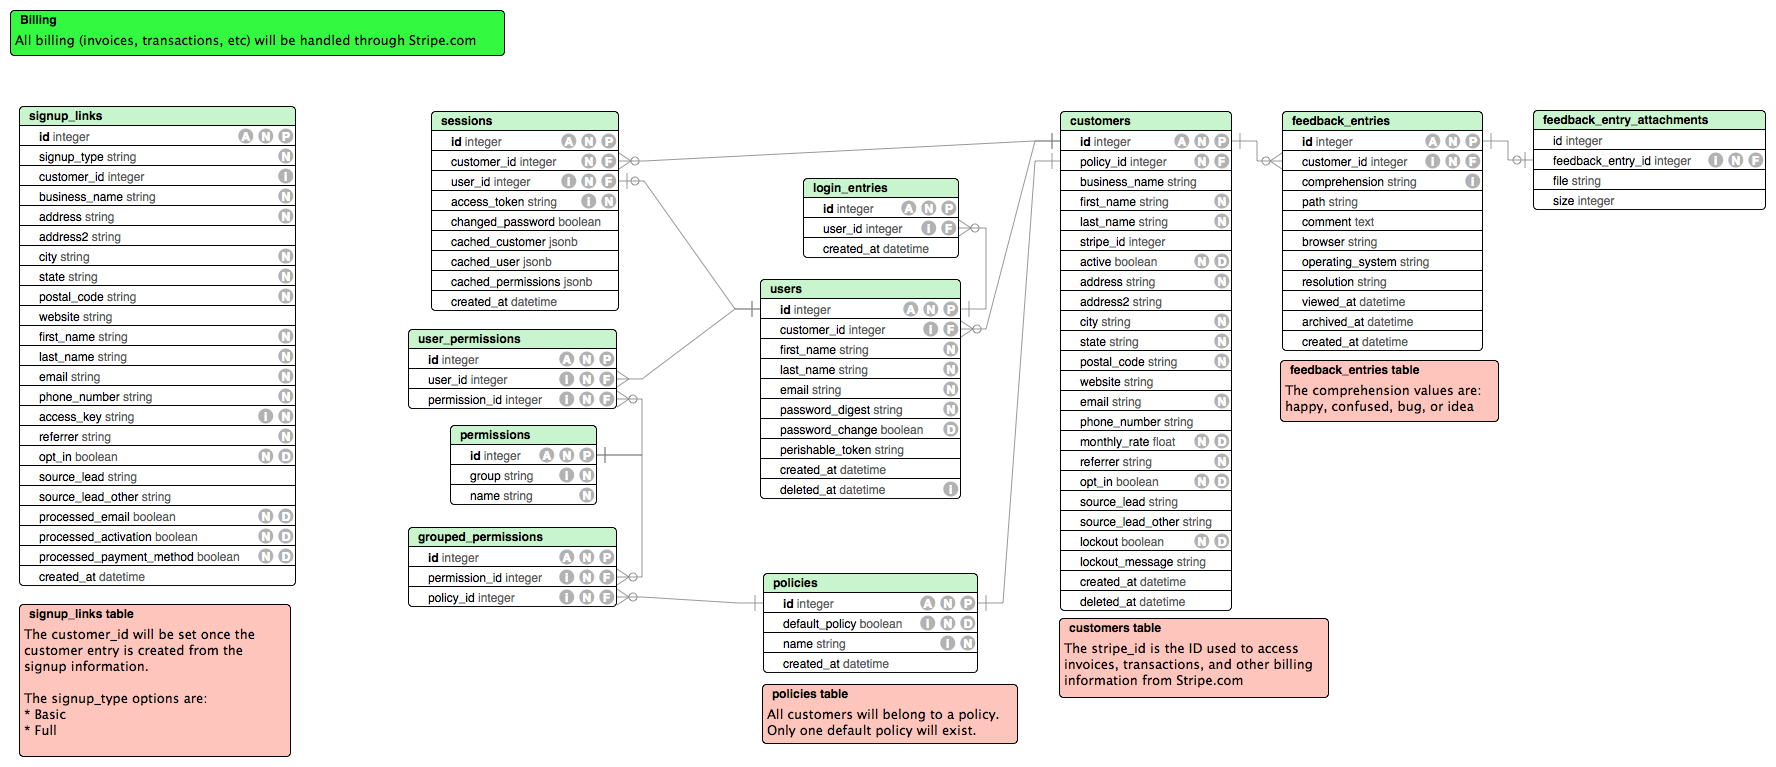
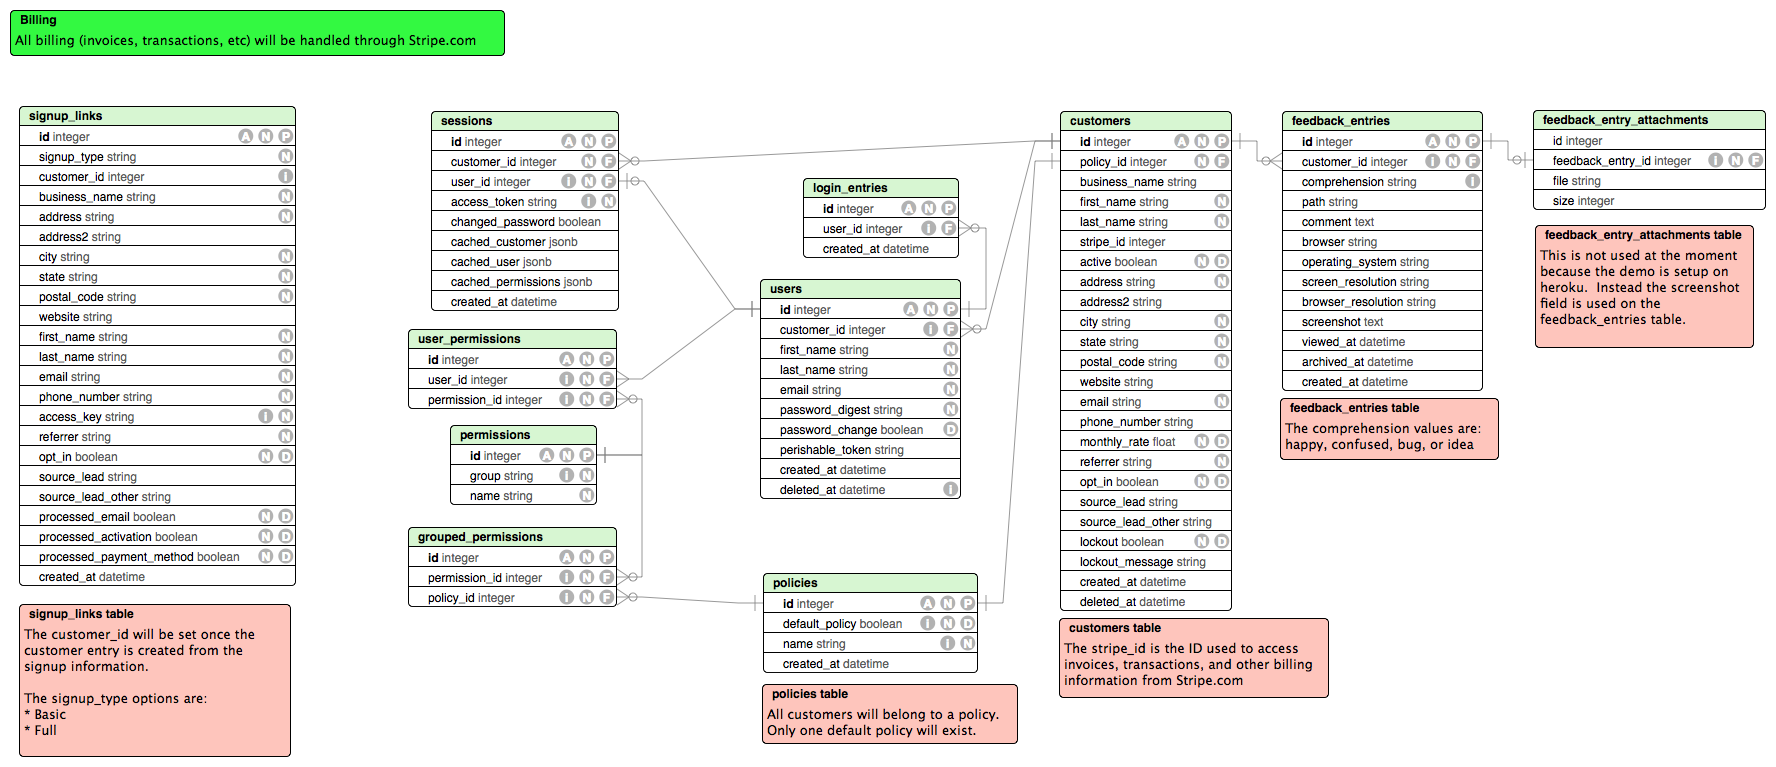
submitting of screenshot is working now.

Changed region(s): [[0.7123, 0.3598, 0.8671, 0.5997], [0.8671, 0.2699, 0.991, 0.4798]]

diff --git a/public/fish.js b/public/fish.js
@@ -1,174 +1,46 @@
 BetaFish = {
   defaults : { 'access_key' : null },
-  _class_vars : { 'url' : 'https://betafish.herokuapp.com/api/feedback_entry' },
+  class_vars : { 'url' : 'http://localhost:3000/api/feedback_entries' },
+  //class_vars : { 'url' : 'https://betafish.herokuapp.com/api/feedback_entries' },
 
-  start : function(options) {
-    // if(options !== undefined) {
-    //   $.extend(this.defaults, options)
-    // }
+  show_form : function() {
 
-    // if(this.defaults['access_key'] == null) {
-    //   alert('Access key must be set');
-    //   return;
-    // }
-
-    // var self = this; // Need object scope at this point
-    // $.getJSON(this._class_vars['url'], function(response){
-
-    //     self.take_snapshot();
-    //   }
-    // )
-    console.log('Hello world');
+  },
+  submit_form : function(options) {
+    this.take_snapshot();
+    console.log('Data Sent');
   },
 
   take_snapshot : function() {
-    console.log('Start');
+    var self = this;
     html2canvas(document.body, {
       onrendered: function(canvas) {
-        document.body.appendChild(canvas);
+        var data = { 'feedback_entry' : {
+          'comprehension' : 'happy',
+          'path' : window.location.href,
+          'comment' : 'This is really awesome',
+          'browser' : navigator.userAgent,
+          'operating_system' : navigator.platform,
+          'screen_resolution' : window.screen.width + ' x ' + window.screen.height,
+          'browser_resolution' : document.body.clientWidth + ' x ' + document.body.clientHeight,
+          'screenshot' : canvas.toDataURL('image/png') //.split(',')[1]
+        }};
+        self.post_feedback(data);
       }
     });
-    console.log('Finished');
+  },
+
+  post_feedback : function(data) {
+    var xmlDoc = new XMLHttpRequest();
+    xmlDoc.open('POST', this.class_vars['url'], true);
+    xmlDoc.setRequestHeader("Content-type", "application/x-www-form-urlencoded");
+    xmlDoc.setRequestHeader('Content-Type', 'application/json');
+    xmlDoc.onreadystatechange = function() {
+      if (xmlDoc.readyState === 4 && xmlDoc.status === 200) {
+        // callback(xmlDoc);
+        console.log('ready....');
+      }
+    }
+    xmlDoc.send(JSON.stringify(data));
   }
-}
-
-
-
-// **************************************************
-// Base64 Utility Section
-// **************************************************
-var TCBase64 = {
-
-  // private property
[1 lines of base64/hex data omitted]
-
-  // public method for encoding
-  encode : function (input) {
-    var output = "";
-    var chr1, chr2, chr3, enc1, enc2, enc3, enc4;
-    var i = 0;
-
-    input = TCBase64._utf8_encode(input);
-
-    while (i < input.length) {
-
-      chr1 = input.charCodeAt(i++);
-      chr2 = input.charCodeAt(i++);
-      chr3 = input.charCodeAt(i++);
-
-      enc1 = chr1 >> 2;
-      enc2 = ((chr1 & 3) << 4) | (chr2 >> 4);
-      enc3 = ((chr2 & 15) << 2) | (chr3 >> 6);
-      enc4 = chr3 & 63;
-
-      if (isNaN(chr2)) {
-        enc3 = enc4 = 64;
-      } else if (isNaN(chr3)) {
-        enc4 = 64;
-      }
-
-      output = output +
-      this._keyStr.charAt(enc1) + this._keyStr.charAt(enc2) +
-      this._keyStr.charAt(enc3) + this._keyStr.charAt(enc4);
-
-    }
-
-    return output;
-  },
-
-  // public method for decoding
-  decode : function (input) {
-    var output = "";
-    var chr1, chr2, chr3;
-    var enc1, enc2, enc3, enc4;
-    var i = 0;
-
-    input = input.replace(/[^A-Za-z0-9\+\/\=]/g, "");
-
-    while (i < input.length) {
-
-      enc1 = this._keyStr.indexOf(input.charAt(i++));
-      enc2 = this._keyStr.indexOf(input.charAt(i++));
-      enc3 = this._keyStr.indexOf(input.charAt(i++));
-      enc4 = this._keyStr.indexOf(input.charAt(i++));
-
-      chr1 = (enc1 << 2) | (enc2 >> 4);
-      chr2 = ((enc2 & 15) << 4) | (enc3 >> 2);
-      chr3 = ((enc3 & 3) << 6) | enc4;
-
-      output = output + String.fromCharCode(chr1);
-
-      if (enc3 != 64) {
-        output = output + String.fromCharCode(chr2);
-      }
-      if (enc4 != 64) {
-        output = output + String.fromCharCode(chr3);
-      }
-
-    }
-
-    output = TCBase64._utf8_decode(output);
-
-    return output;
-
-  },
-
-  // private method for UTF-8 encoding
-  _utf8_encode : function (string) {
-    string = string.replace(/\r\n/g,"\n");
-    var utftext = "";
-
-    for (var n = 0; n < string.length; n++) {
-
-      var c = string.charCodeAt(n);
-
-      if (c < 128) {
-        utftext += String.fromCharCode(c);
-      }
-      else if((c > 127) && (c < 2048)) {
-        utftext += String.fromCharCode((c >> 6) | 192);
-        utftext += String.fromCharCode((c & 63) | 128);
-      }
-      else {
-        utftext += String.fromCharCode((c >> 12) | 224);
-        utftext += String.fromCharCode(((c >> 6) & 63) | 128);
-        utftext += String.fromCharCode((c & 63) | 128);
-      }
-
-    }
-
-    return utftext;
-  },
-
-  // private method for UTF-8 decoding
-  _utf8_decode : function (utftext) {
-    var string = "";
-    var i = 0;
-    var c = c1 = c2 = 0;
-
-    while ( i < utftext.length ) {
-
-      c = utftext.charCodeAt(i);
-
-      if (c < 128) {
-        string += String.fromCharCode(c);
-        i++;
-      }
-      else if((c > 191) && (c < 224)) {
-        c2 = utftext.charCodeAt(i+1);
-        string += String.fromCharCode(((c & 31) << 6) | (c2 & 63));
-        i += 2;
-      }
-      else {
-        c2 = utftext.charCodeAt(i+1);
-        c3 = utftext.charCodeAt(i+2);
-        string += String.fromCharCode(((c & 15) << 12) | ((c2 & 63) << 6) | (c3 & 63));
-        i += 3;
-      }
-
-    }
-
-    return string;
-  }
-
 }

diff --git a/public/example.html b/public/example.html
@@ -3,7 +3,7 @@
     <title>Beta Fish exmaple</title>
     <script type="text/javascript" src="https://betafish.herokuapp.com/libs/html2canvas.min.js"></script>
     <script type="text/javascript" src="https://betafish.herokuapp.com/libs/html2canvas.svg.min.js"></script>
-    <script type="text/javascript" src="https://betafish.herokuapp.com/fish.js"></script>
+    <script type="text/javascript" src="http://localhost:3000/fish.js"></script>
   </head>
 
   <body>

diff --git a/app/assets/stylesheets/feedback_entries.scss b/app/assets/stylesheets/feedback_entries.scss
@@ -16,8 +16,15 @@
 .feedback_operating_system {
 }
 
-.feedback_resolution {
+.feedback_screen_resolution {
+}
+
+.feedback_browser_resolution {
 }
 
 .feedback_screenshot {
+}
+
+.feedback_screenshot img {
+  border: 1px solid #ff0000;
 }

diff --git a/app/assets/stylesheets/application.scss b/app/assets/stylesheets/application.scss
@@ -1,4 +1,5 @@
 @import "bootstrap";
+@import "feedback_entries";
 
 .bs-top-nav-padding {
   padding: 10px;

diff --git a/app/controllers/api/feedback_entries_controller.rb b/app/controllers/api/feedback_entries_controller.rb
@@ -1,7 +1,10 @@
+require 'base64'
+
 class Api::FeedbackEntriesController < ApplicationController
   skip_before_action  :verify_authenticity_token
 
   def create
+    # File.open('dog.png', 'wb') { |file| file.write(Base64.decode64(feedback_entry_params[:screenshot])) }
     fbe = FeedbackEntry.create(feedback_entry_params.merge(customer_id: 1))
     render json: { success: fbe.id }
   end
@@ -15,7 +18,9 @@ class Api::FeedbackEntriesController < ApplicationController
       :comment,
       :browser,
       :operating_system,
-      :resolution
+      :screen_resolution,
+      :browser_resolution,
+      :screenshot
     )
   end
 end

diff --git a/db/schema.rb b/db/schema.rb
@@ -42,13 +42,15 @@ ActiveRecord::Schema.define(version: 20161104021059) do
   end
 
   create_table "feedback_entries", force: :cascade do |t|
-    t.integer  "customer_id",      null: false
+    t.integer  "customer_id",        null: false
     t.string   "comprehension"
     t.string   "path"
     t.text     "comment"
     t.string   "browser"
     t.string   "operating_system"
-    t.string   "resolution"
+    t.string   "screen_resolution"
+    t.string   "browser_resolution"
+    t.text     "screenshot"
     t.datetime "viewed_at"
     t.datetime "archived_at"
     t.datetime "created_at"

diff --git a/db/migrate/20161104021049_create_feedback_entries.rb b/db/migrate/20161104021049_create_feedback_entries.rb
@@ -7,7 +7,9 @@ class CreateFeedbackEntries < ActiveRecord::Migration[5.0]
       t.text :comment
       t.string :browser
       t.string :operating_system
-      t.string :resolution
+      t.string :screen_resolution
+      t.string :browser_resolution
+      t.text :screenshot
       t.datetime :viewed_at
       t.datetime :archived_at
       t.datetime :created_at

diff --git a/app/controllers/feedback_entries_controller.rb b/app/controllers/feedback_entries_controller.rb
@@ -33,6 +33,14 @@ class FeedbackEntriesController < ApplicationController
   def update
   end
 
+  # def show_image
+  #   @feedback_entry = FeedbackEntry.find(params[:id])
+  #   send_data @feedback_entry.screenshot,
+  #     filename: "image#{params[:id]}.png",
+  #     type: 'image/png',
+  #     disposition: 'inline'
+  # end
+
   private
 
   def feedback_entry

diff --git a/app/helpers/feedback_entries_helper.rb b/app/helpers/feedback_entries_helper.rb
@@ -18,6 +18,7 @@ module FeedbackEntriesHelper
   end
 
   def feedback_screenshot(feedback_entry)
-    feedback_entry.feedback_entry_attachment.nil? ? '' : 'P'
+    # feedback_entry.feedback_entry_attachment.nil? ? '' : 'P'
+    image_tag( feedback_entry.screenshot, size: "300x300" )
   end
 end
